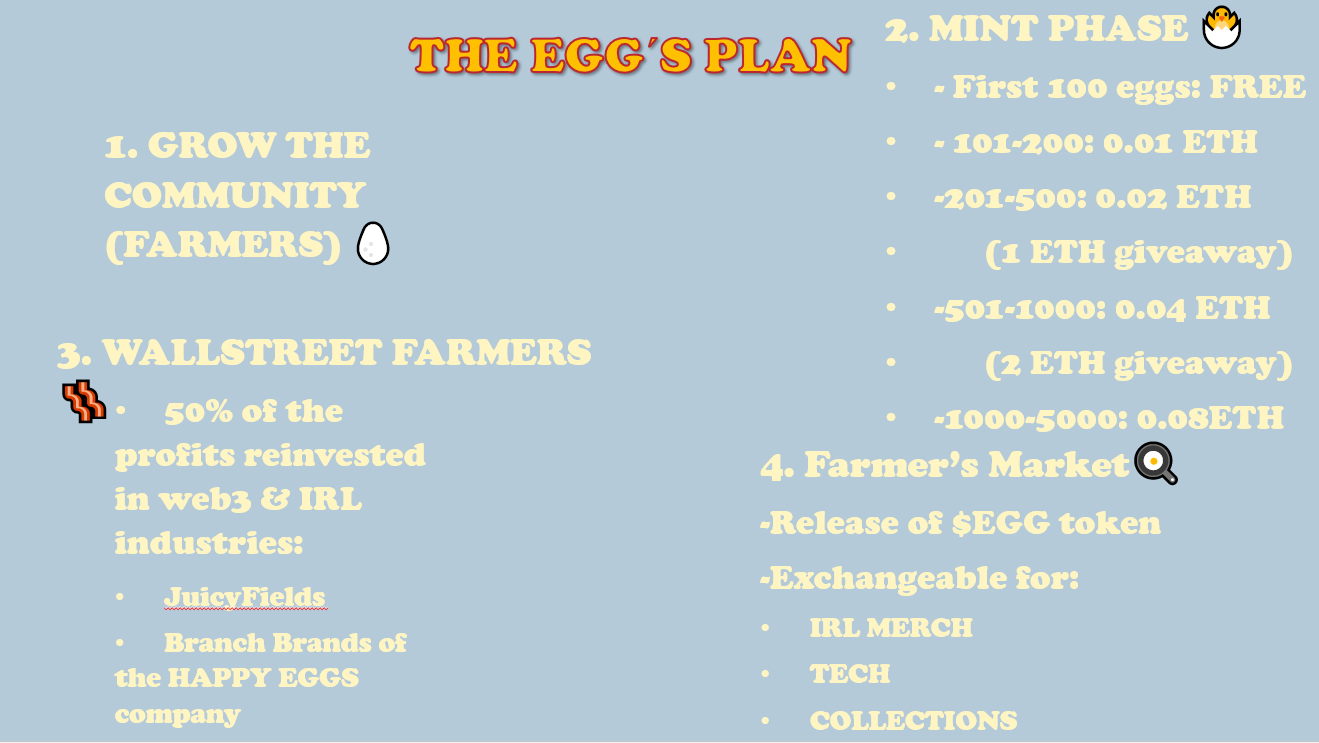
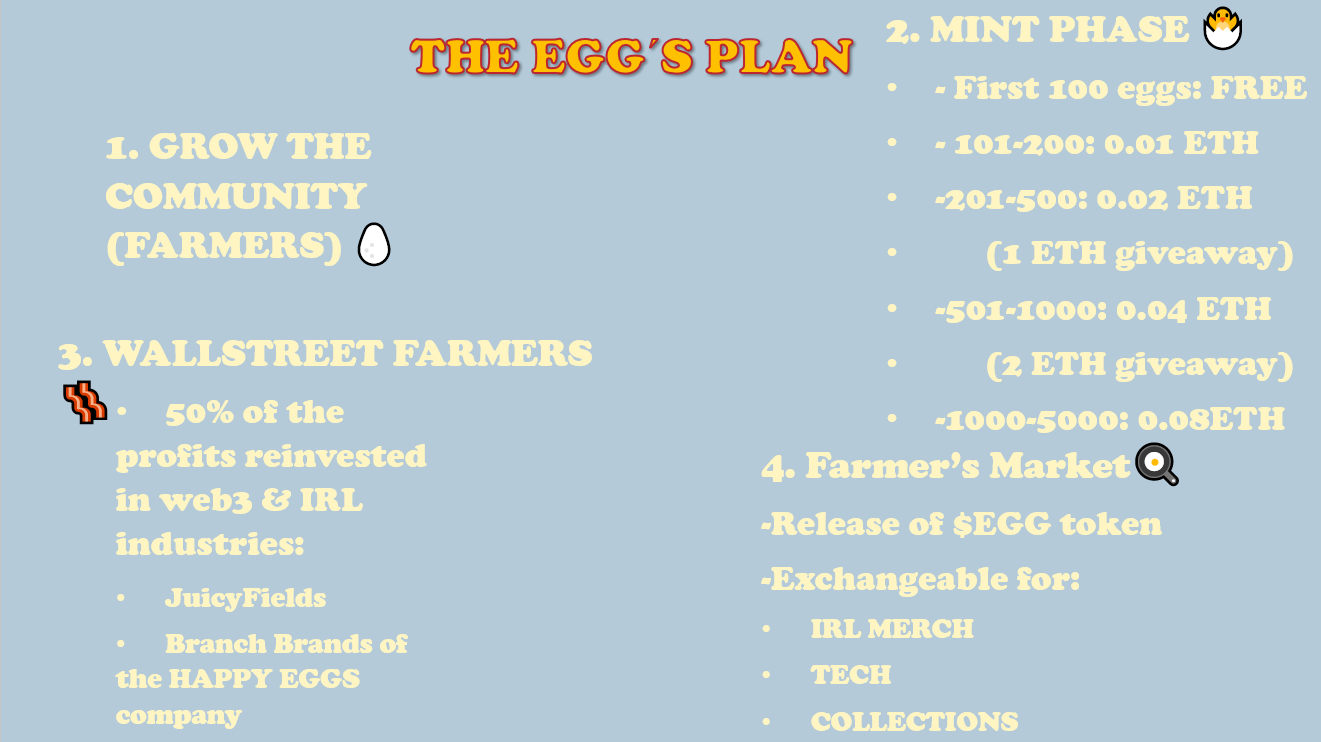
Add files via upload

diff --git a/index.html b/index.html
@@ -49,13 +49,6 @@
             <li class="item"><img src="EggAlone.png" alt="egg alone"></li>
             <li class="item"><img src="EggAlone.png" alt="egg alone"></li>
           </ul>
-<!--           
-          <ul class="hs full no-scrollbar">
-            <li class="item"><img src="EggAlone.png" alt="egg alone"></li>
-            <li class="item">test</li>
-            <li class="item">test</li>
-            <li class="item">test</li>
-          </ul> -->
         </div>
       </div>
       <span class="separator"></span>
@@ -72,15 +65,7 @@
       <div class="Team">
         <img src="Team.png" alt="Team">
       </div>
-      <div class="Minting Dapp">
-        <iframe
-        src="https://gateway.ipfscdn.io/ipfs/QmUfp6thZQTmNKS6tzijJpxdoBe9X7spHwzRjUh3RPTAwF/nft-drop.html?contract=0x5a51b2E73A6F359ca534715759504b196823Ea68&chainId=1"
-        width="600px"
-        height="600px"
-        style="max-width:100%;"
-        frameborder="0"
-      ></iframe>
-      </div>
+      <div style="padding-top:100.000%;position:relative;"><iframe src="https://gifer.com/embed/UbYs" width="100%" height="100%" style='position:absolute;top:0;left:0;' frameBorder="0" allowFullScreen></iframe></div><p><a href="https://gifer.com">via GIFER</a></p>
     </main>
   </body>
 </html>

diff --git a/comingSoon.css b/comingSoon.css
@@ -3,10 +3,11 @@
   padding: 0;
 }
 :root {
+  --fondo:#B4CAD9;
   --Color-principal: #f4d145;
   --Color-secundario: white;
   --Color-terciario: black;
-  --Main-text-color: yellow;
+  --Main-text-color: #FFF5C3;
   --Main-font-size: 1.5vw;
   --Main-font-weight: 400;
   --gutter: 20px;
@@ -15,7 +16,7 @@ head {
   font-size: 1px;
 }
 body {
-  background-color: aqua;
+  background-color: var(--fondo);
   width: 99vw;
   font-size: var(--Main-font-size);
   color: var(--Main-text-color);
@@ -113,4 +114,8 @@ main > div {
 .separator::before, .separator::after {
   content: "";
   display: block;
+}
+.EggsPlan img{
+  width: 99vw;
+  
 }

diff --git a/comingSoon.html b/comingSoon.html
@@ -30,17 +30,6 @@
           <img src="EggAlone.png" alt="Egg Walking" >
         </div>
       </div>
-      <div class="MintDapp">
-            <iframe
-      src="https://gateway.ipfscdn.io/ipfs/QmUfp6thZQTmNKS6tzijJpxdoBe9X7spHwzRjUh3RPTAwF/nft-drop.html?contract=0x5a51b2E73A6F359ca534715759504b196823Ea68&chainId=1"
-      width="600px"
-      height="600px"
-      style="max-width:100%;"
-      frameborder="0"
-      ></iframe>
-      </div>
-
-        
       <span class="separator"></span>
       <div class="Options">
         <div class="app">
